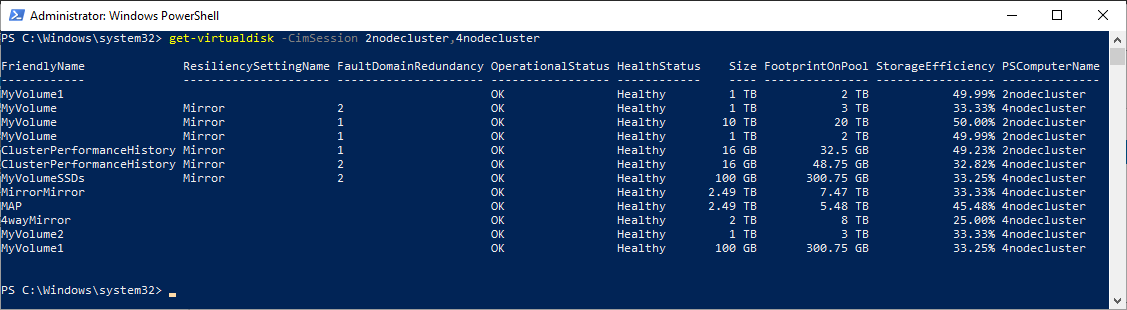
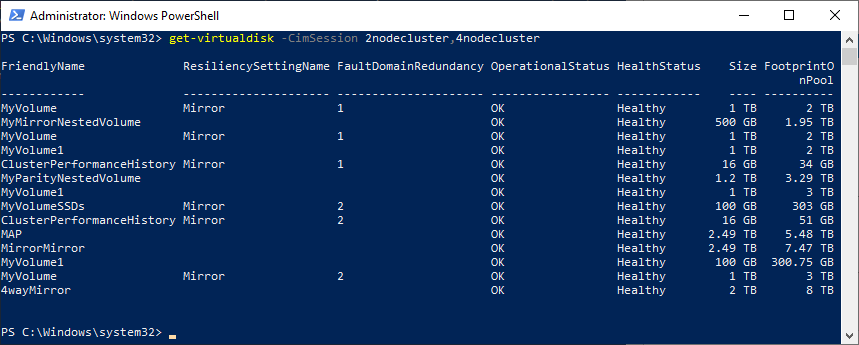
added nested resiliency volumes
Former-commit-id: 01495dbfc99d2a607a46ad7590d372e3a76d2584

Changed region(s): [[0.0, 0.0, 1.0, 1.0], [0.0, 0.1742, 0.8172, 0.871], [0.2119, 0.7839, 0.2724, 0.8129]]

diff --git a/Scenarios/S2D Volumes deep dive/readme.md b/Scenarios/S2D Volumes deep dive/readme.md
@@ -12,6 +12,9 @@
         - [MirrorOnSSD/HDD ParityOnSSD/HDD tiers](#mirroronssdhdd-parityonssdhdd-tiers)
         - [Creating volumes with tiers](#creating-volumes-with-tiers)
         - [Creating your own tier](#creating-your-own-tier)
+    - [Nested resiliency volumes](#nested-resiliency-volumes)
+        - [Create Nested tiers](#create-nested-tiers)
+        - [Create Nested Volume](#create-nested-volume)
     - [Displaying volumes](#displaying-volumes)
     - [Resizing volumes](#resizing-volumes)
         - [Resize volume without tiers](#resize-volume-without-tiers)
@@ -276,6 +279,32 @@ New-Volume -StoragePoolFriendlyName s2d* -FriendlyName 4wayMirror -FileSystem CS
  
 ```
 
+## Nested resiliency volumes
+
+As announced on Ignite 2018, on 2 node configurations is possible to create "special volumes" that can tolerate multiple failures. Let's create some.
+
+### Create Nested tiers
+
+```PowerShell
+#create NestedMirror tier
+New-StorageTier -StoragePoolFriendlyName S2D* -FriendlyName NestedMirror -ResiliencySettingName Mirror -NumberOfDataCopies 4 -MediaType HDD -CimSession 2nodecluster
+
+#create NestedParity tier
+New-StorageTier -StoragePoolFriendlyName S2D* -FriendlyName NestedParity -ResiliencySettingName Parity -NumberOfDataCopies 2 -PhysicalDiskRedundancy 1 -NumberOfGroups 1 -FaultDomainAwareness StorageScaleUnit -ColumnIsolation PhysicalDisk -MediaType HDD -CimSession 2nodecluster
+ 
+```
+
+### Create Nested Volume
+
+```PowerShell
+#Create Mirror Nested Volume
+New-Volume -StoragePoolFriendlyName S2D* -FriendlyName MyMirrorNestedVolume -StorageTierFriendlyNames NestedMirror -StorageTierSizes 500GB -CimSession 2nodecluster
+
+#Create Parity Nested Volume
+New-Volume -StoragePoolFriendlyName S2D* -FriendlyName MyParityNestedVolume -StorageTierFriendlyNames NestedMirror,NestedParity -StorageTierSizes 200GB, 1TB -CimSession 2nodecluster
+ 
+```
+
 ## Displaying volumes
 
 To display volumes you can use get-virtualdisk or get-storagetier (bit confusing, isn't it? :) )
@@ -285,6 +314,7 @@ get-virtualdisk -CimSession 2nodecluster,4nodecluster
 get-storagetier -CimSession 2nodecluster,4nodecluster
  
 ```
+
 ![](/Scenarios/S2D%20Volumes%20deep%20dive/Screenshots/GetVirtualDisk4.png)
 
 ![](/Scenarios/S2D%20Volumes%20deep%20dive/Screenshots/GetStorageTier.png)
